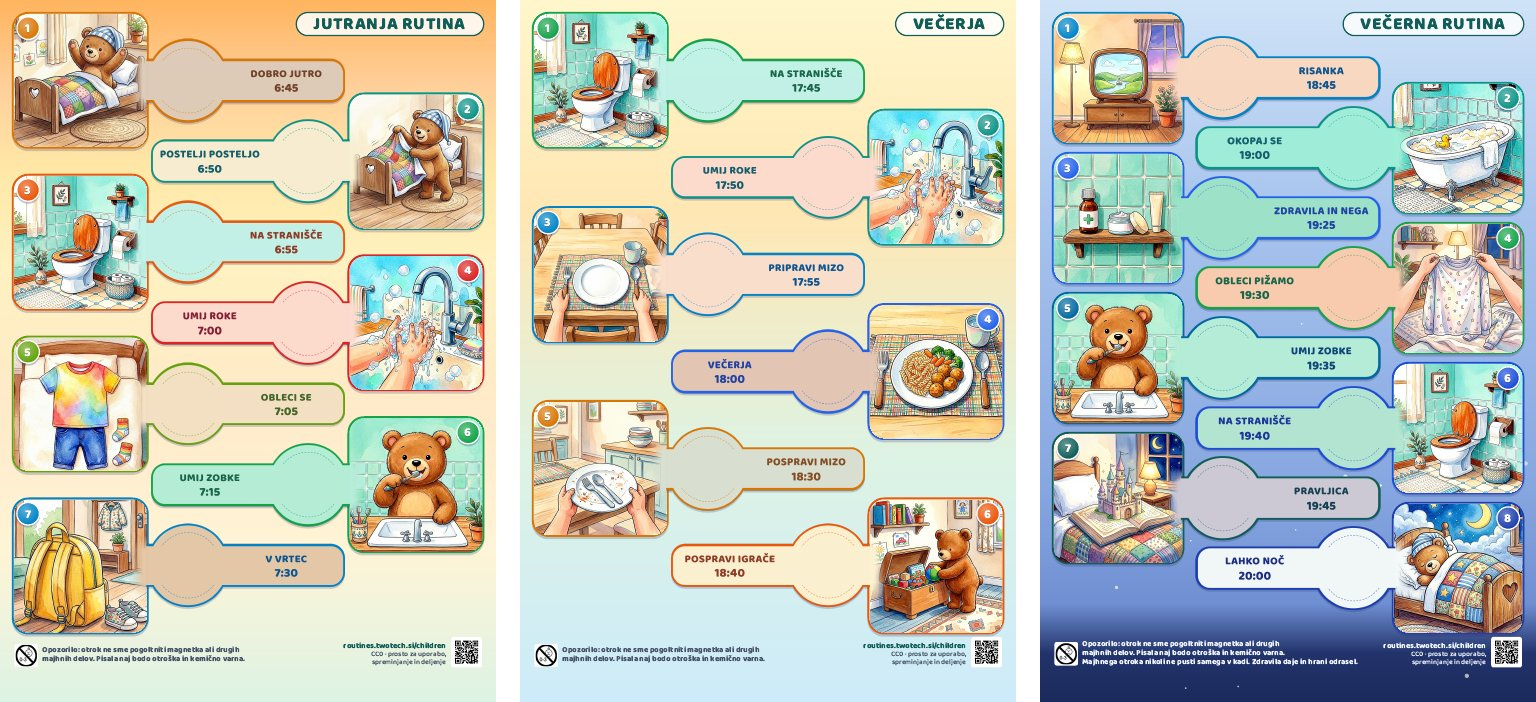
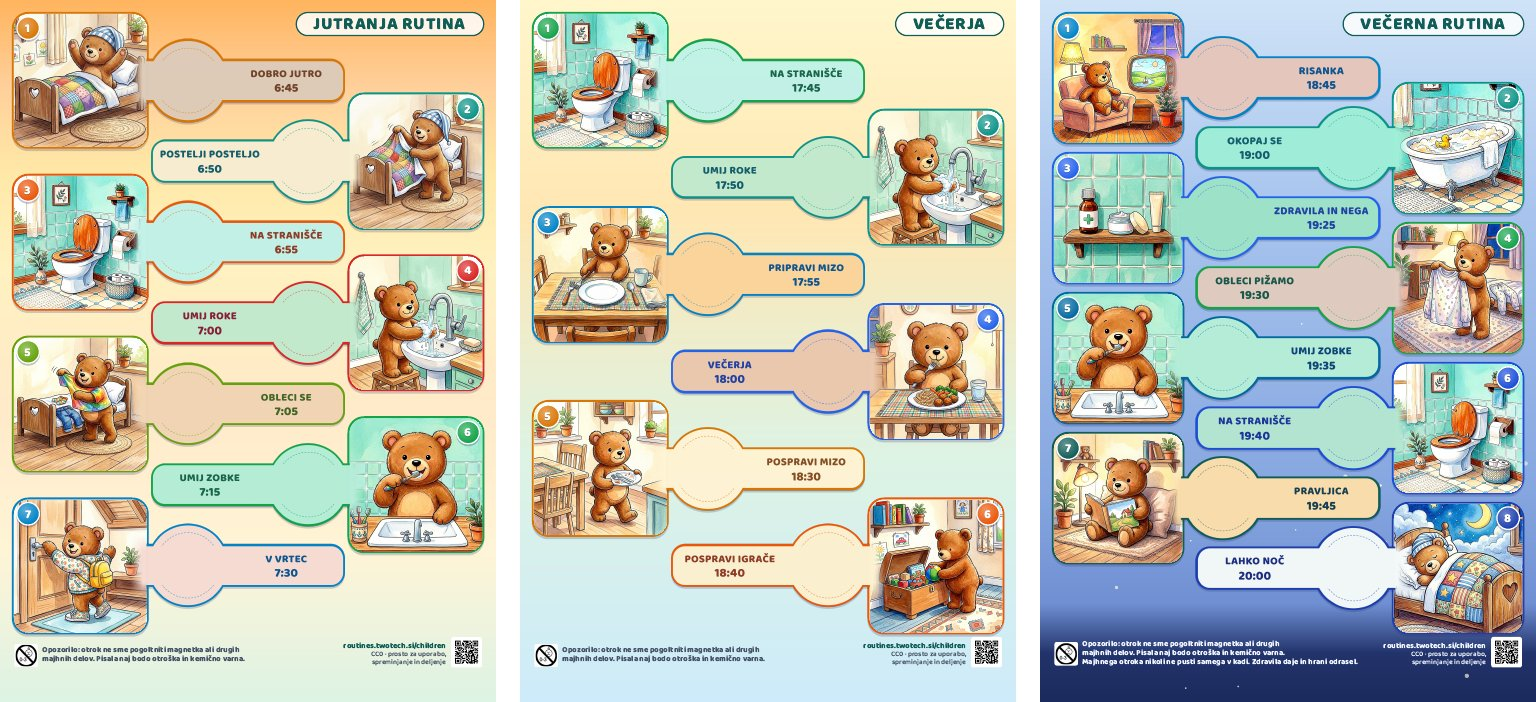
Examples: all three sheets use the teddy bear pictures where one exists (sheet theme bear); README preview refreshed

diff --git a/output/en-example.html b/output/en-example.html
@@ -297,33 +297,33 @@
         </div>
         <div class="rt-check"></div>
       </div>
-      <div class="rt-pic pic-right" style="--step: #DC2626; --bg: #FDDBCE; --ink: #862137; --y: 116.929mm;">
-        <img src="../images/wash-hands.jpg" alt="Wash hands" />
+      <div class="rt-pic pic-right" style="--step: #DC2626; --bg: #C4EACE; --ink: #862137; --y: 116.929mm;">
+        <img src="../images/wash-hands-bear.jpg" alt="Wash hands" />
         <div class="rt-num">4</div>
       </div>
-      <div class="rt-card card-right" style="--step: #DC2626; --bg: #FDDBCE; --ink: #862137; --y: 116.929mm;">
+      <div class="rt-card card-right" style="--step: #DC2626; --bg: #C4EACE; --ink: #862137; --y: 116.929mm;">
         <div class="rt-text">
           <div class="rt-label">WASH HANDS</div>
           <div class="rt-time">7:00 AM</div>
         </div>
         <div class="rt-check"></div>
       </div>
-      <div class="rt-pic pic-left" style="--step: #65A30D; --bg: #F4E0C3; --ink: #456629; --y: 146.571mm;">
-        <img src="../images/getting-dressed.jpg" alt="Get dressed" />
+      <div class="rt-pic pic-left" style="--step: #65A30D; --bg: #F2D5B4; --ink: #456629; --y: 146.571mm;">
+        <img src="../images/getting-dressed-bear.jpg" alt="Get dressed" />
         <div class="rt-num">5</div>
       </div>
-      <div class="rt-card card-left" style="--step: #65A30D; --bg: #F4E0C3; --ink: #456629; --y: 146.571mm;">
+      <div class="rt-card card-left" style="--step: #65A30D; --bg: #F2D5B4; --ink: #456629; --y: 146.571mm;">
         <div class="rt-text">
           <div class="rt-label">GET DRESSED</div>
           <div class="rt-time">7:05 AM</div>
         </div>
         <div class="rt-check"></div>
       </div>
-      <div class="rt-pic pic-right" style="--step: #16A34A; --bg: #FFD68A; --ink: #1A664A; --y: 176.214mm;">
-        <img src="../images/breakfast.jpg" alt="Breakfast" />
+      <div class="rt-pic pic-right" style="--step: #16A34A; --bg: #FFF3CF; --ink: #1A664A; --y: 176.214mm;">
+        <img src="../images/breakfast-bear.jpg" alt="Breakfast" />
         <div class="rt-num">6</div>
       </div>
-      <div class="rt-card card-right" style="--step: #16A34A; --bg: #FFD68A; --ink: #1A664A; --y: 176.214mm;">
+      <div class="rt-card card-right" style="--step: #16A34A; --bg: #FFF3CF; --ink: #1A664A; --y: 176.214mm;">
         <div class="rt-text">
           <div class="rt-label">BREAKFAST</div>
           <div class="rt-time">7:15 AM</div>
@@ -341,11 +341,11 @@
         </div>
         <div class="rt-check"></div>
       </div>
-      <div class="rt-pic pic-right" style="--step: #2563EB; --bg: #D2D3B1; --ink: #2243A3; --y: 235.5mm;">
-        <img src="../images/kindergarten.jpg" alt="Off to school" />
+      <div class="rt-pic pic-right" style="--step: #2563EB; --bg: #F9D3BD; --ink: #2243A3; --y: 235.5mm;">
+        <img src="../images/kindergarten-bear.jpg" alt="Off to school" />
         <div class="rt-num">8</div>
       </div>
-      <div class="rt-card card-right" style="--step: #2563EB; --bg: #D2D3B1; --ink: #2243A3; --y: 235.5mm;">
+      <div class="rt-card card-right" style="--step: #2563EB; --bg: #F9D3BD; --ink: #2243A3; --y: 235.5mm;">
         <div class="rt-text">
           <div class="rt-label">OFF TO SCHOOL</div>
           <div class="rt-time">7:45 AM</div>
@@ -370,44 +370,44 @@
         </div>
         <div class="rt-check"></div>
       </div>
-      <div class="rt-pic pic-right" style="--step: #0D9488; --bg: #FDDBCE; --ink: #155E6D; --y: 70.1mm;">
-        <img src="../images/wash-hands.jpg" alt="Wash hands" />
+      <div class="rt-pic pic-right" style="--step: #0D9488; --bg: #C4EACE; --ink: #155E6D; --y: 70.1mm;">
+        <img src="../images/wash-hands-bear.jpg" alt="Wash hands" />
         <div class="rt-num">2</div>
       </div>
-      <div class="rt-card card-right" style="--step: #0D9488; --bg: #FDDBCE; --ink: #155E6D; --y: 70.1mm;">
+      <div class="rt-card card-right" style="--step: #0D9488; --bg: #C4EACE; --ink: #155E6D; --y: 70.1mm;">
         <div class="rt-text">
           <div class="rt-label">WASH HANDS</div>
           <div class="rt-time">5:50 PM</div>
         </div>
         <div class="rt-check"></div>
       </div>
-      <div class="rt-pic pic-left" style="--step: #0284C7; --bg: #FBDFCD; --ink: #0F558F; --y: 111.2mm;">
-        <img src="../images/set-table.jpg" alt="Set the table" />
+      <div class="rt-pic pic-left" style="--step: #0284C7; --bg: #FCD59C; --ink: #0F558F; --y: 111.2mm;">
+        <img src="../images/set-table-bear.jpg" alt="Set the table" />
         <div class="rt-num">3</div>
       </div>
-      <div class="rt-card card-left" style="--step: #0284C7; --bg: #FBDFCD; --ink: #0F558F; --y: 111.2mm;">
+      <div class="rt-card card-left" style="--step: #0284C7; --bg: #FCD59C; --ink: #0F558F; --y: 111.2mm;">
         <div class="rt-text">
           <div class="rt-label">SET THE TABLE</div>
           <div class="rt-time">5:55 PM</div>
         </div>
         <div class="rt-check"></div>
       </div>
-      <div class="rt-pic pic-right" style="--step: #2563EB; --bg: #E3C6B4; --ink: #2243A3; --y: 152.3mm;">
-        <img src="../images/dinner.jpg" alt="Dinner" />
+      <div class="rt-pic pic-right" style="--step: #2563EB; --bg: #EBC9AF; --ink: #2243A3; --y: 152.3mm;">
+        <img src="../images/dinner-bear.jpg" alt="Dinner" />
         <div class="rt-num">4</div>
       </div>
-      <div class="rt-card card-right" style="--step: #2563EB; --bg: #E3C6B4; --ink: #2243A3; --y: 152.3mm;">
+      <div class="rt-card card-right" style="--step: #2563EB; --bg: #EBC9AF; --ink: #2243A3; --y: 152.3mm;">
         <div class="rt-text">
           <div class="rt-label">DINNER</div>
           <div class="rt-time">6:00 PM</div>
         </div>
         <div class="rt-check"></div>
       </div>
-      <div class="rt-pic pic-left" style="--step: #D97706; --bg: #DAE0D1; --ink: #854E25; --y: 193.4mm;">
-        <img src="../images/clear-table.jpg" alt="Clear the table" />
+      <div class="rt-pic pic-left" style="--step: #D97706; --bg: #FFF4D4; --ink: #854E25; --y: 193.4mm;">
+        <img src="../images/clear-table-bear.jpg" alt="Clear the table" />
         <div class="rt-num">5</div>
       </div>
-      <div class="rt-card card-left" style="--step: #D97706; --bg: #DAE0D1; --ink: #854E25; --y: 193.4mm;">
+      <div class="rt-card card-left" style="--step: #D97706; --bg: #FFF4D4; --ink: #854E25; --y: 193.4mm;">
         <div class="rt-text">
           <div class="rt-label">CLEAR THE TABLE</div>
           <div class="rt-time">6:30 PM</div>
@@ -433,11 +433,11 @@
     <svg class="rt-sky" viewBox="0 0 210 297" preserveAspectRatio="none" aria-hidden="true"><g fill="#FFF8DC"><circle cx="69.1" cy="137.9" r="0.35" opacity="0.49"/><circle cx="112.3" cy="177.7" r="0.35" opacity="0.90"/><circle cx="46.8" cy="125.9" r="0.9" opacity="0.48"/><circle cx="21.5" cy="188.5" r="0.35" opacity="0.92"/><circle cx="131.6" cy="217.9" r="0.35" opacity="0.74"/><circle cx="83.9" cy="290.6" r="0.35" opacity="0.73"/><circle cx="30.2" cy="187.5" r="0.35" opacity="0.74"/><circle cx="117.3" cy="236.2" r="0.35" opacity="0.74"/><circle cx="133.3" cy="178.9" r="0.35" opacity="0.73"/><circle cx="129.3" cy="201.8" r="0.9" opacity="0.84"/><circle cx="165.1" cy="239.3" r="0.5" opacity="0.49"/><circle cx="64.3" cy="201.6" r="0.7" opacity="0.81"/><circle cx="61.7" cy="291.3" r="0.35" opacity="0.71"/><circle cx="36.7" cy="173.3" r="0.9" opacity="0.66"/><circle cx="199.3" cy="124.4" r="0.7" opacity="0.62"/><circle cx="74.4" cy="201.9" r="0.9" opacity="0.48"/><circle cx="22.1" cy="159.9" r="0.35" opacity="0.48"/><circle cx="146.1" cy="229.7" r="0.9" opacity="0.59"/><circle cx="81.7" cy="233.7" r="0.35" opacity="0.92"/><circle cx="75.5" cy="223.0" r="0.9" opacity="0.48"/><circle cx="159.7" cy="133.9" r="0.5" opacity="0.65"/><circle cx="190.0" cy="201.9" r="0.5" opacity="0.67"/><circle cx="59.8" cy="186.8" r="0.7" opacity="0.79"/><circle cx="80.6" cy="152.7" r="0.35" opacity="0.54"/><circle cx="50.3" cy="153.2" r="0.9" opacity="0.87"/><circle cx="40.2" cy="162.2" r="0.5" opacity="0.66"/><circle cx="78.3" cy="214.8" r="0.5" opacity="0.80"/><circle cx="108.2" cy="224.3" r="0.35" opacity="0.68"/><circle cx="180.7" cy="286.1" r="0.9" opacity="0.65"/><circle cx="83.4" cy="199.1" r="0.9" opacity="0.48"/><circle cx="16.7" cy="148.6" r="0.5" opacity="0.50"/><circle cx="125.5" cy="128.9" r="0.5" opacity="0.72"/><circle cx="196.6" cy="223.5" r="0.35" opacity="0.89"/><circle cx="128.3" cy="137.5" r="0.7" opacity="0.93"/><circle cx="125.9" cy="197.7" r="0.35" opacity="0.87"/><circle cx="205.6" cy="196.2" r="0.9" opacity="0.61"/><circle cx="32.4" cy="248.7" r="0.7" opacity="0.69"/><circle cx="144.2" cy="205.5" r="0.5" opacity="0.93"/><circle cx="110.8" cy="137.1" r="0.35" opacity="0.83"/><circle cx="63.8" cy="228.9" r="0.35" opacity="0.80"/><circle cx="56.3" cy="177.8" r="0.5" opacity="0.63"/><circle cx="48.4" cy="210.2" r="0.7" opacity="0.77"/><circle cx="128.1" cy="255.9" r="0.5" opacity="0.85"/><circle cx="169.9" cy="246.9" r="0.5" opacity="0.55"/><circle cx="103.5" cy="245.2" r="0.35" opacity="0.85"/><circle cx="99.3" cy="145.8" r="0.7" opacity="0.67"/></g></svg>
     <div class="rt-grid">
       <div class="rt-header"><div class="rt-title">EVENING ROUTINE</div></div>
-      <div class="rt-pic pic-left" style="--step: #0284C7; --bg: #FAD9C2; --ink: #0F558F; --y: 28mm;">
-        <img src="../images/cartoon.jpg" alt="Cartoon time" />
+      <div class="rt-pic pic-left" style="--step: #0284C7; --bg: #E7C7BE; --ink: #0F558F; --y: 28mm;">
+        <img src="../images/cartoon-bear.jpg" alt="Cartoon time" />
         <div class="rt-num">1</div>
       </div>
-      <div class="rt-card card-left" style="--step: #0284C7; --bg: #FAD9C2; --ink: #0F558F; --y: 28mm;">
+      <div class="rt-card card-left" style="--step: #0284C7; --bg: #E7C7BE; --ink: #0F558F; --y: 28mm;">
         <div class="rt-text">
           <div class="rt-label">CARTOON TIME</div>
           <div class="rt-time">6:45 PM</div>
@@ -466,11 +466,11 @@
         </div>
         <div class="rt-check"></div>
       </div>
-      <div class="rt-pic pic-right" style="--step: #16A34A; --bg: #FACCAF; --ink: #1A664A; --y: 116.929mm;">
-        <img src="../images/pajamas.jpg" alt="Put on pajamas" />
+      <div class="rt-pic pic-right" style="--step: #16A34A; --bg: #E1CCC1; --ink: #1A584B; --y: 116.929mm;">
+        <img src="../images/pajamas-bear.jpg" alt="Put on pajamas" />
         <div class="rt-num">4</div>
       </div>
-      <div class="rt-card card-right" style="--step: #16A34A; --bg: #FACCAF; --ink: #1A664A; --y: 116.929mm;">
+      <div class="rt-card card-right" style="--step: #16A34A; --bg: #E1CCC1; --ink: #1A584B; --y: 116.929mm;">
         <div class="rt-text">
           <div class="rt-label">PUT ON PAJAMAS</div>
           <div class="rt-time">7:30 PM</div>
@@ -499,11 +499,11 @@
         </div>
         <div class="rt-check"></div>
       </div>
-      <div class="rt-pic pic-left" style="--step: #115E59; --bg: #CECBD6; --ink: #174053; --y: 205.857mm;">
-        <img src="../images/story.jpg" alt="Bedtime story" />
+      <div class="rt-pic pic-left" style="--step: #115E59; --bg: #FBDEAD; --ink: #174053; --y: 205.857mm;">
+        <img src="../images/story-bear.jpg" alt="Bedtime story" />
         <div class="rt-num">7</div>
       </div>
-      <div class="rt-card card-left" style="--step: #115E59; --bg: #CECBD6; --ink: #174053; --y: 205.857mm;">
+      <div class="rt-card card-left" style="--step: #115E59; --bg: #FBDEAD; --ink: #174053; --y: 205.857mm;">
         <div class="rt-text">
           <div class="rt-label">BEDTIME STORY</div>
           <div class="rt-time">7:45 PM</div>

diff --git a/output/sl-primer.html b/output/sl-primer.html
@@ -297,22 +297,22 @@
         </div>
         <div class="rt-check"></div>
       </div>
-      <div class="rt-pic pic-right" style="--step: #DC2626; --bg: #FDDBCE; --ink: #862137; --y: 131.75mm;">
-        <img src="../images/wash-hands.jpg" alt="Umij roke" />
+      <div class="rt-pic pic-right" style="--step: #DC2626; --bg: #C4EACE; --ink: #862137; --y: 131.75mm;">
+        <img src="../images/wash-hands-bear.jpg" alt="Umij roke" />
         <div class="rt-num">4</div>
       </div>
-      <div class="rt-card card-right" style="--step: #DC2626; --bg: #FDDBCE; --ink: #862137; --y: 131.75mm;">
+      <div class="rt-card card-right" style="--step: #DC2626; --bg: #C4EACE; --ink: #862137; --y: 131.75mm;">
         <div class="rt-text">
           <div class="rt-label">UMIJ ROKE</div>
           <div class="rt-time">7:00</div>
         </div>
         <div class="rt-check"></div>
       </div>
-      <div class="rt-pic pic-left" style="--step: #65A30D; --bg: #F4E0C3; --ink: #456629; --y: 166mm;">
-        <img src="../images/getting-dressed.jpg" alt="Obleci se" />
+      <div class="rt-pic pic-left" style="--step: #65A30D; --bg: #F2D5B4; --ink: #456629; --y: 166mm;">
+        <img src="../images/getting-dressed-bear.jpg" alt="Obleci se" />
         <div class="rt-num">5</div>
       </div>
-      <div class="rt-card card-left" style="--step: #65A30D; --bg: #F4E0C3; --ink: #456629; --y: 166mm;">
+      <div class="rt-card card-left" style="--step: #65A30D; --bg: #F2D5B4; --ink: #456629; --y: 166mm;">
         <div class="rt-text">
           <div class="rt-label">OBLECI SE</div>
           <div class="rt-time">7:05</div>
@@ -330,11 +330,11 @@
         </div>
         <div class="rt-check"></div>
       </div>
-      <div class="rt-pic pic-left" style="--step: #0284C7; --bg: #E4C8A8; --ink: #0F558F; --y: 234.5mm;">
-        <img src="../images/kindergarten.jpg" alt="V vrtec" />
+      <div class="rt-pic pic-left" style="--step: #0284C7; --bg: #F6DCD2; --ink: #0F558F; --y: 234.5mm;">
+        <img src="../images/kindergarten-bear.jpg" alt="V vrtec" />
         <div class="rt-num">7</div>
       </div>
-      <div class="rt-card card-left" style="--step: #0284C7; --bg: #E4C8A8; --ink: #0F558F; --y: 234.5mm;">
+      <div class="rt-card card-left" style="--step: #0284C7; --bg: #F6DCD2; --ink: #0F558F; --y: 234.5mm;">
         <div class="rt-text">
           <div class="rt-label">V VRTEC</div>
           <div class="rt-time">7:30</div>
@@ -359,44 +359,44 @@
         </div>
         <div class="rt-check"></div>
       </div>
-      <div class="rt-pic pic-right" style="--step: #0D9488; --bg: #FDDBCE; --ink: #155E6D; --y: 70.1mm;">
-        <img src="../images/wash-hands.jpg" alt="Umij roke" />
+      <div class="rt-pic pic-right" style="--step: #0D9488; --bg: #C4EACE; --ink: #155E6D; --y: 70.1mm;">
+        <img src="../images/wash-hands-bear.jpg" alt="Umij roke" />
         <div class="rt-num">2</div>
       </div>
-      <div class="rt-card card-right" style="--step: #0D9488; --bg: #FDDBCE; --ink: #155E6D; --y: 70.1mm;">
+      <div class="rt-card card-right" style="--step: #0D9488; --bg: #C4EACE; --ink: #155E6D; --y: 70.1mm;">
         <div class="rt-text">
           <div class="rt-label">UMIJ ROKE</div>
           <div class="rt-time">17:50</div>
         </div>
         <div class="rt-check"></div>
       </div>
-      <div class="rt-pic pic-left" style="--step: #0284C7; --bg: #FBDFCD; --ink: #0F558F; --y: 111.2mm;">
-        <img src="../images/set-table.jpg" alt="Pripravi mizo" />
+      <div class="rt-pic pic-left" style="--step: #0284C7; --bg: #FCD59C; --ink: #0F558F; --y: 111.2mm;">
+        <img src="../images/set-table-bear.jpg" alt="Pripravi mizo" />
         <div class="rt-num">3</div>
       </div>
-      <div class="rt-card card-left" style="--step: #0284C7; --bg: #FBDFCD; --ink: #0F558F; --y: 111.2mm;">
+      <div class="rt-card card-left" style="--step: #0284C7; --bg: #FCD59C; --ink: #0F558F; --y: 111.2mm;">
         <div class="rt-text">
           <div class="rt-label">PRIPRAVI MIZO</div>
           <div class="rt-time">17:55</div>
         </div>
         <div class="rt-check"></div>
       </div>
-      <div class="rt-pic pic-right" style="--step: #2563EB; --bg: #E3C6B4; --ink: #2243A3; --y: 152.3mm;">
-        <img src="../images/dinner.jpg" alt="Večerja" />
+      <div class="rt-pic pic-right" style="--step: #2563EB; --bg: #EBC9AF; --ink: #2243A3; --y: 152.3mm;">
+        <img src="../images/dinner-bear.jpg" alt="Večerja" />
         <div class="rt-num">4</div>
       </div>
-      <div class="rt-card card-right" style="--step: #2563EB; --bg: #E3C6B4; --ink: #2243A3; --y: 152.3mm;">
+      <div class="rt-card card-right" style="--step: #2563EB; --bg: #EBC9AF; --ink: #2243A3; --y: 152.3mm;">
         <div class="rt-text">
           <div class="rt-label">VEČERJA</div>
           <div class="rt-time">18:00</div>
         </div>
         <div class="rt-check"></div>
       </div>
-      <div class="rt-pic pic-left" style="--step: #D97706; --bg: #DAE0D1; --ink: #854E25; --y: 193.4mm;">
-        <img src="../images/clear-table.jpg" alt="Pospravi mizo" />
+      <div class="rt-pic pic-left" style="--step: #D97706; --bg: #FFF4D4; --ink: #854E25; --y: 193.4mm;">
+        <img src="../images/clear-table-bear.jpg" alt="Pospravi mizo" />
         <div class="rt-num">5</div>
       </div>
-      <div class="rt-card card-left" style="--step: #D97706; --bg: #DAE0D1; --ink: #854E25; --y: 193.4mm;">
+      <div class="rt-card card-left" style="--step: #D97706; --bg: #FFF4D4; --ink: #854E25; --y: 193.4mm;">
         <div class="rt-text">
           <div class="rt-label">POSPRAVI MIZO</div>
           <div class="rt-time">18:30</div>
@@ -422,11 +422,11 @@
     <svg class="rt-sky" viewBox="0 0 210 297" preserveAspectRatio="none" aria-hidden="true"><g fill="#FFF8DC"><circle cx="69.1" cy="137.9" r="0.35" opacity="0.49"/><circle cx="112.3" cy="177.7" r="0.35" opacity="0.90"/><circle cx="46.8" cy="125.9" r="0.9" opacity="0.48"/><circle cx="21.5" cy="188.5" r="0.35" opacity="0.92"/><circle cx="131.6" cy="217.9" r="0.35" opacity="0.74"/><circle cx="83.9" cy="290.6" r="0.35" opacity="0.73"/><circle cx="30.2" cy="187.5" r="0.35" opacity="0.74"/><circle cx="117.3" cy="236.2" r="0.35" opacity="0.74"/><circle cx="133.3" cy="178.9" r="0.35" opacity="0.73"/><circle cx="129.3" cy="201.8" r="0.9" opacity="0.84"/><circle cx="165.1" cy="239.3" r="0.5" opacity="0.49"/><circle cx="64.3" cy="201.6" r="0.7" opacity="0.81"/><circle cx="61.7" cy="291.3" r="0.35" opacity="0.71"/><circle cx="36.7" cy="173.3" r="0.9" opacity="0.66"/><circle cx="199.3" cy="124.4" r="0.7" opacity="0.62"/><circle cx="74.4" cy="201.9" r="0.9" opacity="0.48"/><circle cx="22.1" cy="159.9" r="0.35" opacity="0.48"/><circle cx="146.1" cy="229.7" r="0.9" opacity="0.59"/><circle cx="81.7" cy="233.7" r="0.35" opacity="0.92"/><circle cx="75.5" cy="223.0" r="0.9" opacity="0.48"/><circle cx="159.7" cy="133.9" r="0.5" opacity="0.65"/><circle cx="190.0" cy="201.9" r="0.5" opacity="0.67"/><circle cx="59.8" cy="186.8" r="0.7" opacity="0.79"/><circle cx="80.6" cy="152.7" r="0.35" opacity="0.54"/><circle cx="50.3" cy="153.2" r="0.9" opacity="0.87"/><circle cx="40.2" cy="162.2" r="0.5" opacity="0.66"/><circle cx="78.3" cy="214.8" r="0.5" opacity="0.80"/><circle cx="108.2" cy="224.3" r="0.35" opacity="0.68"/><circle cx="180.7" cy="286.1" r="0.9" opacity="0.65"/><circle cx="83.4" cy="199.1" r="0.9" opacity="0.48"/><circle cx="16.7" cy="148.6" r="0.5" opacity="0.50"/><circle cx="125.5" cy="128.9" r="0.5" opacity="0.72"/><circle cx="196.6" cy="223.5" r="0.35" opacity="0.89"/><circle cx="128.3" cy="137.5" r="0.7" opacity="0.93"/><circle cx="125.9" cy="197.7" r="0.35" opacity="0.87"/><circle cx="205.6" cy="196.2" r="0.9" opacity="0.61"/><circle cx="32.4" cy="248.7" r="0.7" opacity="0.69"/><circle cx="144.2" cy="205.5" r="0.5" opacity="0.93"/><circle cx="110.8" cy="137.1" r="0.35" opacity="0.83"/><circle cx="63.8" cy="228.9" r="0.35" opacity="0.80"/><circle cx="56.3" cy="177.8" r="0.5" opacity="0.63"/><circle cx="48.4" cy="210.2" r="0.7" opacity="0.77"/><circle cx="128.1" cy="255.9" r="0.5" opacity="0.85"/><circle cx="169.9" cy="246.9" r="0.5" opacity="0.55"/><circle cx="103.5" cy="245.2" r="0.35" opacity="0.85"/><circle cx="99.3" cy="145.8" r="0.7" opacity="0.67"/></g></svg>
     <div class="rt-grid">
       <div class="rt-header"><div class="rt-title">VEČERNA RUTINA</div></div>
-      <div class="rt-pic pic-left" style="--step: #0284C7; --bg: #FAD9C2; --ink: #0F558F; --y: 28mm;">
-        <img src="../images/cartoon.jpg" alt="Risanka" />
+      <div class="rt-pic pic-left" style="--step: #0284C7; --bg: #E7C7BE; --ink: #0F558F; --y: 28mm;">
+        <img src="../images/cartoon-bear.jpg" alt="Risanka" />
         <div class="rt-num">1</div>
       </div>
-      <div class="rt-card card-left" style="--step: #0284C7; --bg: #FAD9C2; --ink: #0F558F; --y: 28mm;">
+      <div class="rt-card card-left" style="--step: #0284C7; --bg: #E7C7BE; --ink: #0F558F; --y: 28mm;">
         <div class="rt-text">
           <div class="rt-label">RISANKA</div>
           <div class="rt-time">18:45</div>
@@ -455,11 +455,11 @@
         </div>
         <div class="rt-check"></div>
       </div>
-      <div class="rt-pic pic-right" style="--step: #16A34A; --bg: #FACCAF; --ink: #1A664A; --y: 116.929mm;">
-        <img src="../images/pajamas.jpg" alt="Obleci pižamo" />
+      <div class="rt-pic pic-right" style="--step: #16A34A; --bg: #E1CCC1; --ink: #1A584B; --y: 116.929mm;">
+        <img src="../images/pajamas-bear.jpg" alt="Obleci pižamo" />
         <div class="rt-num">4</div>
       </div>
-      <div class="rt-card card-right" style="--step: #16A34A; --bg: #FACCAF; --ink: #1A664A; --y: 116.929mm;">
+      <div class="rt-card card-right" style="--step: #16A34A; --bg: #E1CCC1; --ink: #1A584B; --y: 116.929mm;">
         <div class="rt-text">
           <div class="rt-label">OBLECI PIŽAMO</div>
           <div class="rt-time">19:30</div>
@@ -488,11 +488,11 @@
         </div>
         <div class="rt-check"></div>
       </div>
-      <div class="rt-pic pic-left" style="--step: #115E59; --bg: #CECBD6; --ink: #174053; --y: 205.857mm;">
-        <img src="../images/story.jpg" alt="Pravljica" />
+      <div class="rt-pic pic-left" style="--step: #115E59; --bg: #FBDEAD; --ink: #174053; --y: 205.857mm;">
+        <img src="../images/story-bear.jpg" alt="Pravljica" />
         <div class="rt-num">7</div>
       </div>
-      <div class="rt-card card-left" style="--step: #115E59; --bg: #CECBD6; --ink: #174053; --y: 205.857mm;">
+      <div class="rt-card card-left" style="--step: #115E59; --bg: #FBDEAD; --ink: #174053; --y: 205.857mm;">
         <div class="rt-text">
           <div class="rt-label">PRAVLJICA</div>
           <div class="rt-time">19:45</div>

diff --git a/children/data.js b/children/data.js
@@ -722,6 +722,7 @@ window.SHEET_DATA = {
      "title": "MORNING ROUTINE",
      "sky": "dawn",
      "stars": false,
+     "theme": "bear",
      "steps": [
       {
        "label": "GOOD MORNING",
@@ -777,6 +778,7 @@ window.SHEET_DATA = {
      "title": "DINNER",
      "sky": "afternoon",
      "stars": false,
+     "theme": "bear",
      "steps": [
       {
        "label": "USE THE TOILET",
@@ -820,6 +822,7 @@ window.SHEET_DATA = {
      "title": "EVENING ROUTINE",
      "sky": "night",
      "stars": true,
+     "theme": "bear",
      "steps": [
       {
        "label": "CARTOON TIME",
@@ -881,6 +884,7 @@ window.SHEET_DATA = {
      "title": "JUTRANJA RUTINA",
      "sky": "dawn",
      "stars": false,
+     "theme": "bear",
      "steps": [
       {
        "label": "DOBRO JUTRO",
@@ -930,6 +934,7 @@ window.SHEET_DATA = {
      "title": "VEČERJA",
      "sky": "afternoon",
      "stars": false,
+     "theme": "bear",
      "steps": [
       {
        "label": "NA STRANIŠČE",
@@ -973,6 +978,7 @@ window.SHEET_DATA = {
      "title": "VEČERNA RUTINA",
      "sky": "night",
      "stars": true,
+     "theme": "bear",
      "steps": [
       {
        "label": "RISANKA",
